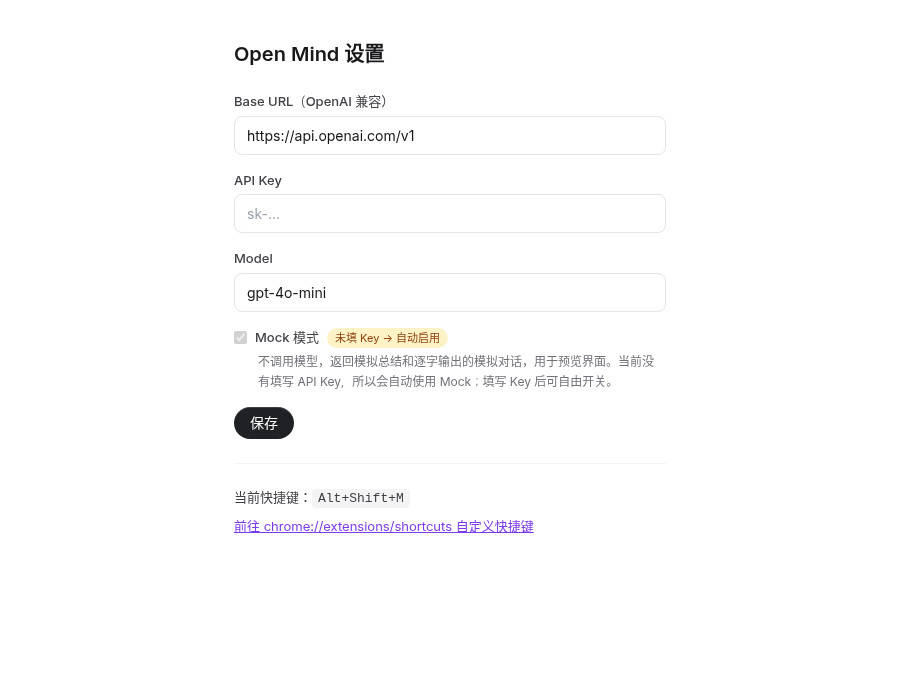
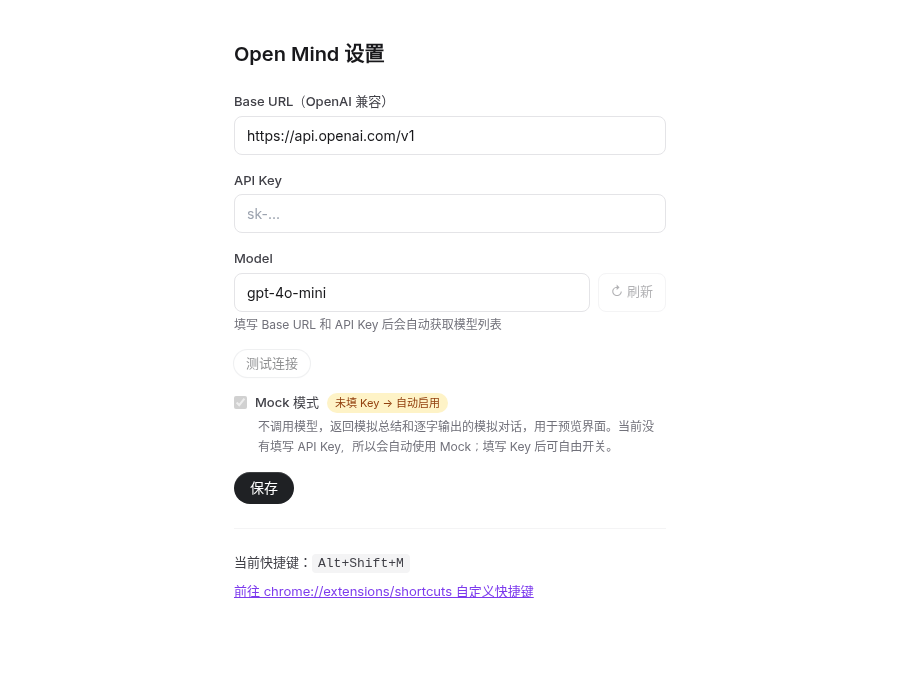
feat(options): auto-fetched searchable model list + test connection; refresh v3 screenshots

diff --git a/components/ModelCombobox.tsx b/components/ModelCombobox.tsx
@@ -1,0 +1,64 @@
+import { useEffect, useMemo, useRef, useState } from 'react';
+
+/** Searchable combobox: filter the fetched list, or type any custom model name. */
+export function ModelCombobox({ value, onChange, models, loading, error, onRefresh, canFetch }: {
+  value: string; onChange: (v: string) => void; models: string[]; loading: boolean; error: string; onRefresh: () => void; canFetch: boolean;
+}) {
+  const [open, setOpen] = useState(false);
+  const [active, setActive] = useState(0);
+  const [query, setQuery] = useState<string | null>(null); // null = show full list (not filtering yet)
+  const box = useRef<HTMLDivElement>(null);
+  const filtered = useMemo(() => {
+    const q = (query ?? '').trim().toLowerCase();
+    return q ? models.filter((m) => m.toLowerCase().includes(q)) : models;
+  }, [models, query]);
+  useEffect(() => setActive(0), [query, models]);
+  useEffect(() => {
+    const onDoc = (e: MouseEvent) => { if (!box.current?.contains(e.target as Node)) setOpen(false); };
+    document.addEventListener('mousedown', onDoc); return () => document.removeEventListener('mousedown', onDoc);
+  }, []);
+  const pick = (m: string) => { onChange(m); setQuery(null); setOpen(false); };
+
+  return (
+    <div ref={box} className="relative">
+      <div className="flex gap-2">
+        <input
+          role="combobox" aria-expanded={open} aria-autocomplete="list" aria-label="Model"
+          value={value} placeholder="选择或输入模型名，例如 gpt-4o-mini"
+          onFocus={() => setOpen(true)}
+          onChange={(e) => { onChange(e.target.value); setQuery(e.target.value); setOpen(true); }}
+          onKeyDown={(e) => {
+            if (e.key === 'ArrowDown') { e.preventDefault(); setOpen(true); setActive((a) => Math.min(a + 1, filtered.length - 1)); }
+            else if (e.key === 'ArrowUp') { e.preventDefault(); setActive((a) => Math.max(a - 1, 0)); }
+            else if (e.key === 'Enter' && open && filtered[active]) { e.preventDefault(); pick(filtered[active]!); }
+            else if (e.key === 'Escape') setOpen(false);
+          }}
+          className="w-full rounded-lg border border-zinc-200 px-3 py-2 text-[14px] outline-none focus:border-zinc-400"
+        />
+        <button type="button" onClick={onRefresh} disabled={!canFetch || loading} title="刷新模型列表"
+          className="shrink-0 rounded-lg border border-zinc-200 px-3 text-[13px] text-zinc-700 hover:bg-zinc-50 disabled:opacity-40">
+          <span className={loading ? 'inline-block animate-spin' : ''}>↻</span> 刷新
+        </button>
+      </div>
+      <p className="mt-1 text-[12px] text-zinc-500" data-model-status>
+        {!canFetch ? '填写 Base URL 和 API Key 后会自动获取模型列表'
+          : loading ? '正在获取模型列表…'
+          : error ? <span className="text-red-600">获取模型列表失败：{error}</span>
+          : `共 ${models.length} 个模型，可搜索，也可以直接输入自定义模型名`}
+      </p>
+      {open && (models.length > 0 || loading) && (
+        <ul role="listbox" className="absolute left-0 right-0 top-[42px] z-10 max-h-64 overflow-y-auto rounded-lg border border-zinc-200 bg-white py-1 shadow-lg">
+          {loading && <li className="px-3 py-2 text-[13px] text-zinc-400">加载中…</li>}
+          {!loading && filtered.length === 0 && <li className="px-3 py-2 text-[13px] text-zinc-400">没有匹配的模型，回车后将使用自定义名称「{value}」</li>}
+          {!loading && filtered.map((m, i) => (
+            <li key={m} role="option" aria-selected={m === value}
+              onMouseDown={(e) => { e.preventDefault(); pick(m); }} onMouseEnter={() => setActive(i)}
+              className={`flex cursor-pointer items-center justify-between px-3 py-1.5 text-[13px] ${i === active ? 'bg-zinc-100' : ''}`}>
+              <span className="truncate">{m}</span>{m === value && <span className="text-zinc-500">✓</span>}
+            </li>
+          ))}
+        </ul>
+      )}
+    </div>
+  );
+}

diff --git a/entrypoints/options/main.tsx b/entrypoints/options/main.tsx
@@ -1,15 +1,46 @@
 import ReactDOM from 'react-dom/client';
-import { useEffect, useState } from 'react';
+import { useEffect, useRef, useState } from 'react';
 import '@/assets/tailwind.css';
 import { getSettings, saveSettings } from '@/lib/settings';
 import { Button } from '@/components/bui/Button';
 import { useMock } from '@/lib/mock';
+import { ModelCombobox } from '@/components/ModelCombobox';
+import type { TestResult } from '@/lib/models';
 import { DEFAULT_SETTINGS, type Settings } from '@/lib/types';
 
 function Options() {
   const [s, setS] = useState<Settings>(DEFAULT_SETTINGS);
   const [shortcut, setShortcut] = useState('');
   const [saved, setSaved] = useState(false);
+  const [models, setModels] = useState<string[]>([]);
+  const [mLoading, setMLoading] = useState(false);
+  const [mError, setMError] = useState('');
+  const [testing, setTesting] = useState(false);
+  const [test, setTest] = useState<TestResult | null>(null);
+  const isLocal = /^https?:\/\/(localhost|127\.0\.0\.1|\[::1\])(:|\/|$)/.test(s.baseUrl);
+  const canFetch = /^https?:\/\//.test(s.baseUrl) && (!!s.apiKey || isLocal);
+  const reqId = useRef(0);
+  const fetchModels = async () => {
+    if (!canFetch) return;
+    const id = ++reqId.current;
+    setMLoading(true); setMError('');
+    const r = await chrome.runtime.sendMessage({ type: 'listModels', settings: { baseUrl: s.baseUrl, apiKey: s.apiKey } });
+    if (id !== reqId.current) return; // stale
+    setMLoading(false);
+    if (r?.ok) setModels(r.models); else { setModels([]); setMError(r?.error ?? '未知错误'); }
+  };
+  useEffect(() => { // debounced auto-fetch when Base URL / key change
+    if (!canFetch) { setModels([]); setMError(''); return; }
+    setMLoading(true); setMError(''); reqId.current++; // show loading immediately; drop in-flight results
+    const t = setTimeout(fetchModels, 600);
+    return () => clearTimeout(t);
+  }, [s.baseUrl, s.apiKey]);
+  const runTest = async () => {
+    setTesting(true); setTest(null);
+    const r = await chrome.runtime.sendMessage({ type: 'testConnection', settings: s });
+    setTesting(false);
+    setTest(r?.ok ? r.result : { ok: false, ms: 0, error: r?.error ?? '未知错误' });
+  };
   useEffect(() => {
     getSettings().then(setS);
     chrome.commands.getAll((c) => setShortcut(c.find((x) => x.name === 'toggle-overlay')?.shortcut || '未设置'));
@@ -27,7 +58,18 @@ function Options() {
       <section className="space-y-4">
         {field('baseUrl', 'Base URL（OpenAI 兼容）', 'text', 'https://api.openai.com/v1')}
         {field('apiKey', 'API Key', 'password', 'sk-...')}
-        {field('model', 'Model', 'text', 'gpt-4o-mini')}
+        <div className="space-y-1">
+          <span className="text-[13px] font-medium text-zinc-700">Model</span>
+          <ModelCombobox value={s.model} onChange={(model) => setS({ ...s, model })} models={models} loading={mLoading} error={mError} onRefresh={fetchModels} canFetch={canFetch} />
+        </div>
+        <div className="flex flex-wrap items-center gap-3">
+          <Button variant="secondary" size="sm" onClick={runTest} disabled={testing || !s.model || !canFetch}>{testing ? '测试中…' : '测试连接'}</Button>
+          <span data-test-result className="text-[13px]">
+            {testing && <span className="text-zinc-500">正在向 {s.model} 发送测试请求…</span>}
+            {test?.ok && <span className="text-green-700">✓ 连接成功 · {test.ms} ms{test.reply ? ` · 回复：${test.reply}` : ''}</span>}
+            {test && !test.ok && <span className="text-red-600">✗ 连接失败：{test.error}</span>}
+          </span>
+        </div>
         {(() => {
           const auto = !s.mock && useMock(s); // no key (and not a local server) → mock is used automatically
           return (

diff --git a/tests/models.test.ts b/tests/models.test.ts
@@ -1,0 +1,56 @@
+import { createServer, type Server } from 'node:http';
+import { afterAll, beforeAll, describe, expect, it } from 'vitest';
+import { listModels, testConnection } from '../lib/models';
+
+let server: Server; let base = '';
+beforeAll(async () => {
+  server = createServer((req, res) => {
+    const authed = req.headers.authorization === 'Bearer good';
+    if (req.url === '/v1/models' && req.method === 'GET') {
+      if (!authed) { res.writeHead(401, { 'Content-Type': 'application/json' }); return res.end('{"error":"bad key"}'); }
+      res.writeHead(200, { 'Content-Type': 'application/json' });
+      return res.end(JSON.stringify({ object: 'list', data: [{ id: 'gpt-b' }, { id: 'gpt-a' }, { id: 'gpt-a' }, { nope: 1 }] }));
+    }
+    if (req.url === '/v1/chat/completions') {
+      let raw = ''; req.on('data', (c) => (raw += c)); req.on('end', () => {
+        const body = JSON.parse(raw);
+        if (!authed) { res.writeHead(401); return res.end('{"error":{"message":"invalid key"}}'); }
+        if (body.model === 'missing') { res.writeHead(404); return res.end('{"error":{"message":"model not found"}}'); }
+        res.writeHead(200, { 'Content-Type': 'text/event-stream' });
+        res.write(`data: ${JSON.stringify({ id: '1', object: 'chat.completion.chunk', created: 0, model: body.model, choices: [{ index: 0, delta: { content: 'pong' }, finish_reason: null }] })}\n\n`);
+        res.write(`data: ${JSON.stringify({ id: '1', object: 'chat.completion.chunk', created: 0, model: body.model, choices: [{ index: 0, delta: {}, finish_reason: 'stop' }] })}\n\n`);
+        res.end('data: [DONE]\n\n');
+      });
+      return;
+    }
+    res.writeHead(404); res.end();
+  });
+  await new Promise<void>((r) => server.listen(0, '127.0.0.1', r));
+  base = `http://127.0.0.1:${(server.address() as any).port}/v1`;
+});
+afterAll(() => server.close());
+
+describe('listModels', () => {
+  it('returns sorted unique ids (trailing slash ok)', async () => {
+    expect(await listModels({ baseUrl: base + '/', apiKey: 'good' })).toEqual(['gpt-a', 'gpt-b']);
+  });
+  it('surfaces HTTP errors', async () => {
+    await expect(listModels({ baseUrl: base, apiKey: 'bad' })).rejects.toThrow(/401/);
+  });
+  it('surfaces network errors', async () => {
+    await expect(listModels({ baseUrl: 'http://127.0.0.1:1/v1', apiKey: 'x' })).rejects.toThrow(/无法连接/);
+  });
+});
+
+describe('testConnection', () => {
+  it('succeeds with latency and reply', async () => {
+    const r = await testConnection({ baseUrl: base, apiKey: 'good', model: 'gpt-a', mock: false });
+    expect(r.ok).toBe(true); expect(r.reply).toBe('pong'); expect(r.ms).toBeGreaterThanOrEqual(0);
+  });
+  it('reports errors (bad key, unknown model)', async () => {
+    const a = await testConnection({ baseUrl: base, apiKey: 'bad', model: 'gpt-a', mock: false });
+    expect(a.ok).toBe(false); expect(a.error).toBeTruthy();
+    const b = await testConnection({ baseUrl: base, apiKey: 'good', model: 'missing', mock: false });
+    expect(b.ok).toBe(false); expect(b.error).toBeTruthy();
+  });
+});

diff --git a/lib/models.ts b/lib/models.ts
@@ -1,0 +1,33 @@
+import { runTurn } from './llm';
+import type { Settings } from './types';
+
+type Fetch = typeof fetch;
+
+/** GET {baseUrl}/models (OpenAI-compatible). Returns sorted unique model ids. */
+export async function listModels(s: Pick<Settings, 'baseUrl' | 'apiKey'>, f: Fetch = fetch, signal?: AbortSignal): Promise<string[]> {
+  const url = s.baseUrl.replace(/\/+$/, '') + '/models';
+  let res: Response;
+  try {
+    res = await f(url, { headers: s.apiKey ? { Authorization: `Bearer ${s.apiKey}` } : {}, signal });
+  } catch (e: any) {
+    throw new Error(`无法连接 ${url}：${e?.message ?? e}`);
+  }
+  if (!res.ok) throw new Error(`HTTP ${res.status}：${(await res.text().catch(() => '')).slice(0, 200)}`);
+  const body: any = await res.json().catch(() => { throw new Error('返回的不是 JSON'); });
+  const arr: any[] = Array.isArray(body) ? body : Array.isArray(body?.data) ? body.data : Array.isArray(body?.models) ? body.models : [];
+  const ids = arr.map((m) => (typeof m === 'string' ? m : m?.id ?? m?.name)).filter((x): x is string => typeof x === 'string' && !!x);
+  return [...new Set(ids)].sort((a, b) => a.localeCompare(b));
+}
+
+export interface TestResult { ok: boolean; ms: number; reply?: string; error?: string }
+
+/** Send a tiny completion through the same pi durable path the extension uses. */
+export async function testConnection(s: Settings, now: () => number = () => performance.now()): Promise<TestResult> {
+  const t0 = now();
+  try {
+    const reply = await runTurn({ ...s, mock: false }, 'Reply with exactly: pong', [], 'ping');
+    return { ok: true, ms: Math.round(now() - t0), reply: reply.slice(0, 80) };
+  } catch (e: any) {
+    return { ok: false, ms: Math.round(now() - t0), error: String(e?.message ?? e) };
+  }
+}

diff --git a/entrypoints/background.ts b/entrypoints/background.ts
@@ -1,5 +1,6 @@
 import { chromeKV, createCache } from '@/lib/cache';
 import { runTurn } from '@/lib/llm';
+import { listModels, testConnection } from '@/lib/models';
 import { mockStream, mockSummary, useMock } from '@/lib/mock';
 import { parseSummary } from '@/lib/parse';
 import { chatSystem, SUMMARY_INSTRUCTIONS, summaryInput } from '@/lib/prompts';
@@ -36,6 +37,8 @@ export default defineBackground(() => {
         await cache.setSummary(url, { summary, content, title });
         return { summary, chat: [] };
       }
+      if (msg.type === 'listModels') return { models: await listModels(msg.settings) };
+      if (msg.type === 'testConnection') return { result: await testConnection(msg.settings) };
       if (msg.type === 'openOptions') { chrome.runtime.openOptionsPage(); return {}; }
       if (msg.type === 'clearChat') { await cache.setChat(msg.url, []); return {}; }
     })().then((r) => reply({ ok: true, ...r }), (e) => reply({ ok: false, error: String(e?.message ?? e) }));

diff --git a/README.md b/README.md
@@ -25,7 +25,8 @@ npm test         # Vitest 单元测试
 打开插件的「选项」页，填写：
 - **Base URL**：OpenAI 兼容接口地址，例如 `https://api.openai.com/v1`、`https://openrouter.ai/api/v1`，或本地 Ollama `http://localhost:11434/v1`（本地地址可不填 Key）
 - **API Key**
-- **Model**：例如 `gpt-4o-mini`
+- **Model**：填好 Base URL 和 Key 后会自动从 `/models` 拉取模型列表（可搜索，也可直接输入自定义模型名，点「刷新」可重新获取）
+- **测试连接**：向所选模型发一条极短的请求，显示是否成功及耗时
 
 - **Mock mode**：勾选后不调用模型，约 1.2 秒后返回一份模拟总结，对话也会逐字输出模拟回复，方便不填 Key 先体验完整界面。没填 API Key 时也会自动进入 Mock mode（`localhost` 等本地地址除外）。
 
